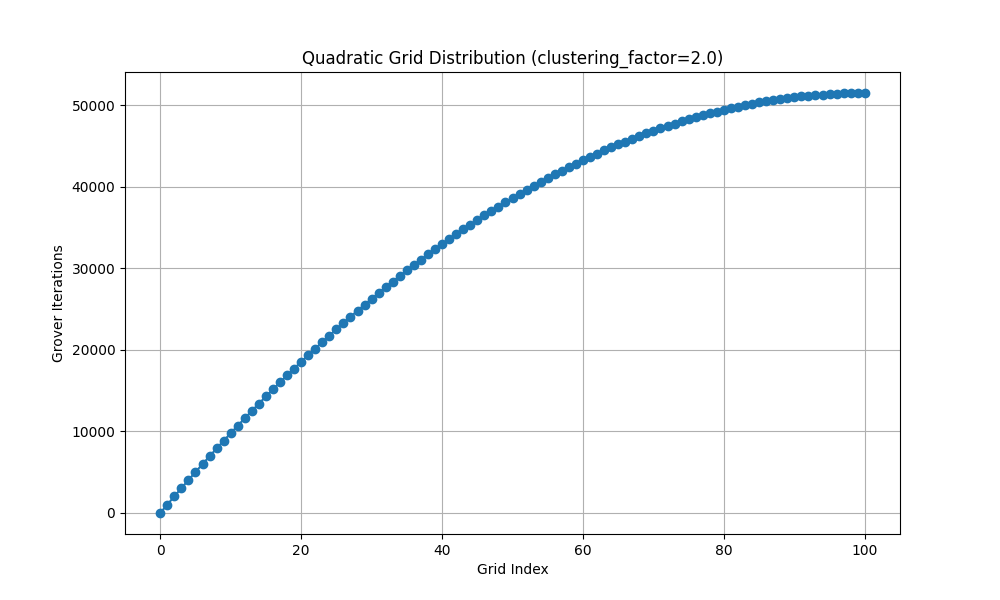
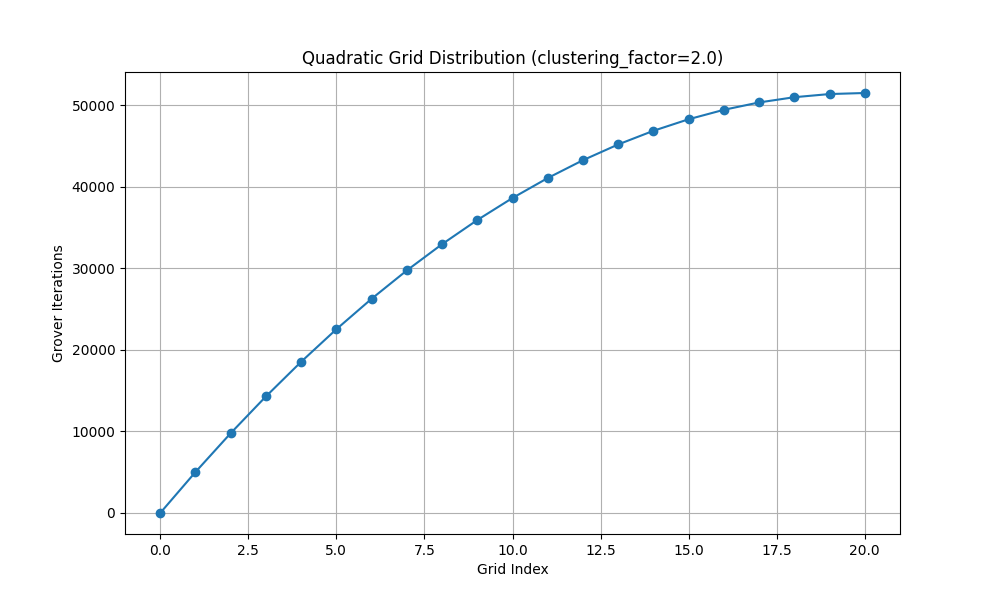
latex tables updates

diff --git a/simulate_mining.py b/simulate_mining.py
@@ -16,13 +16,19 @@ class QuantumMiningSimulator:
                  quantum_simulation_time: float = 86400.0, #seconds in a day
                  difficulty: float = 119116256505723.5, #current difficulty
                  #difficulty: float = 3651011.631, #difficulty from 2013 (low D)
+                 scale_with_D: bool = False
     ) -> None:
         self.nash_equilibrium = nash_equilibrium
         self.num_simulations = num_simulations
         self.classical_block_rate = classical_block_rate
         self.quantum_simulation_time = quantum_simulation_time
         self.difficulty = difficulty
-        self.optimal_iterations = min(np.floor(np.pi / 4 * np.sqrt(difficulty)),  int(np.floor(np.pi/4 * np.sqrt(2**32))))
+        self.scale_with_D = scale_with_D
+        if not scale_with_D:
+            self.optimal_iterations = min(np.floor(np.pi / 4 * np.sqrt(difficulty)),  int(np.floor(np.pi/4 * np.sqrt(2**32))))
+        else:
+            self.optimal_iterations = np.floor(np.pi / 4 * np.sqrt(difficulty))
+
         self.seconds_per_iteration = 600 / (self.optimal_iterations)
 
     def measurement_probability(self, iterations: int) -> float:
@@ -400,25 +406,23 @@ def simulate_multiple_strategies():
     print(f"{'='*60}")
 
 def main():
-    #fname = 'output.txt'
-    #analyzer = NashEquilibriaAnalyzer()
-    #nash_eq = analyzer.converge(fname)
+    fname = 'output.txt'
+    analyzer = NashEquilibriaAnalyzer()
+    nash_eq = analyzer.converge(fname)
 
-    #D = 82047028459932.62
-    #D = 119116256505723.5 #difficulty as of May 9 2025
+    D = 119116256505723.5 #difficulty as of May 9 2025
     #D = 3651011.631 #difficulty as of Feb 26 2013
 
-    '''
-    simulator = QuantumMiningSimulator(nash_eq, num_simulations = 100000, difficulty = D)
+    simulator = QuantumMiningSimulator(nash_eq, num_simulations = 100000, difficulty = D, scale_with_D = True)
     print('Simulating {} runs...'.format(10000000))
     avg_fork_rate, avg_blocks, avg_forks = simulator.simulate_all()
     print('Simulation complete!')
     print('Average Stale Rate:', avg_fork_rate)
     print('Average Blocks Found Per Day:', avg_blocks)
     print('Average Forks Found Per Day:', avg_forks)
-    '''
-
-    simulate_multiple_strategies()
+    
+    
+    #simulate_multiple_strategies()
     
 if __name__  == '__main__':
     main()

diff --git a/output_latex.tex b/output_latex.tex
@@ -1,16 +1,20 @@
-\begin{tabular}{|l|l|l|}
+\begin{tabular}{|c|c|c|}
 \hline
-Player & Strategy & Probability \\ 
+Player & Pure Strategy & Probability \\ 
 \hline
-Alice & (0.00, 0.00, 0.80) & 0.14 \\ 
-Alice & (0.00, 0.00, 0.89) & 0.03 \\ 
-Alice & (0.00, 0.56, 0.40) & 0.51 \\ 
-Alice & (0.00, 0.69, 0.21) & 0.04 \\ 
-Alice & (0.40, 0.00, 0.56) & 0.29 \\ 
-Bob & (0.00, 0.00, 0.80) & 0.14 \\ 
-Bob & (0.00, 0.00, 0.89) & 0.03 \\ 
-Bob & (0.00, 0.56, 0.40) & 0.51 \\ 
-Bob & (0.00, 0.69, 0.21) & 0.04 \\ 
-Bob & (0.40, 0.00, 0.56) & 0.29 \\ 
+Alice & (0, 0, 3962107, 3962107) & 0.11 \\ 
+Alice & (0, 0, 4762148, 3085872) & 0.14 \\ 
+Alice & (0, 0, 5485994, 3085872) & 0.13 \\ 
+Alice & (0, 0, 6133646, 2133442) & 0.05 \\ 
+Alice & (0, 0, 6705104, 1104818) & 0.06 \\ 
+Alice & (0, 3962107, 3085872, 1104818) & 0.43 \\ 
+Alice & (3085872, 0, 0, 4762148) & 0.07 \\ 
+Bob & (0, 0, 3962107, 3962107) & 0.11 \\ 
+Bob & (0, 0, 4762148, 3085872) & 0.14 \\ 
+Bob & (0, 0, 5485994, 3085872) & 0.13 \\ 
+Bob & (0, 0, 6133646, 2133442) & 0.05 \\ 
+Bob & (0, 0, 6705104, 1104818) & 0.06 \\ 
+Bob & (0, 3962107, 3085872, 1104818) & 0.43 \\ 
+Bob & (3085872, 0, 0, 4762148) & 0.07 \\ 
 \hline
 \end{tabular}

diff --git a/make_tables_latex.py b/make_tables_latex.py
@@ -60,9 +60,9 @@ def process_file(input_file: str, output_file: str, normalize: bool = False, max
         blocks.append(current_block)
 
     with open(output_file, 'w') as f:
-        f.write(r'\begin{tabular}{|l|l|l|}' + '\n')
+        f.write(r'\begin{tabular}{|c|c|c|}' + '\n')
         f.write(r'\hline' + '\n')
-        f.write('Player & Strategy & Probability \\\\ \n')
+        f.write('Player & Pure Strategy & Probability \\\\ \n')
         f.write(r'\hline' + '\n')
 
         for i, block in enumerate(blocks):
@@ -329,8 +329,10 @@ def export_filtered_data(df: pd.DataFrame, filters: Dict[str, Any],
         csv_to_markdown_table(filtered_df, output_file)
     
     print(f"Exported {len(filtered_df)} rows to {output_file}")
+ 
 
 if __name__ == "__main__": 
-    #process_file('output.txt', 'output_latex.tex', normalize=True)
-    process_file('output.txt', 'output_latex.tex', normalize=True, max_iterations = 8571866)
+    #max_iterations = 1500
+    max_iterations = 8571866
+    process_file('output.txt', 'output_latex.tex', normalize=False, max_iterations = max_iterations)
     check_probability_sums('output.txt')

diff --git a/buildpayoff.py b/buildpayoff.py
@@ -349,15 +349,15 @@ class BuildPayoff:
         return expected_payoff
 
 def main():
-    K =  100 #number of pure strategies (including 0 so K=1 means 2 strategies)
-    num_plays = 1 #number of plays
+    K =  20 #number of pure strategies (including 0 so K=1 means 2 strategies)
+    num_plays = 2 #number of plays
     #D = 82047028459932.62
     D = 119116256505723.5 #difficulty as of May 9 2025
     #D = 3651011.631 #difficulty as of Feb 26 2013
     clustering_factor = 2.0
     gamma = 0.5
 
-    builder = BuildPayoff(K, num_plays, D, clustering_factor, gamma, scale_with_D = False, stop_after = 1)
+    builder = BuildPayoff(K, num_plays, D, clustering_factor, gamma, scale_with_D = False, stop_after = 2)
     builder.test_quadratic_grid()
     A = builder.get_payoff()
     B = builder.get_payoff(bob=True)
